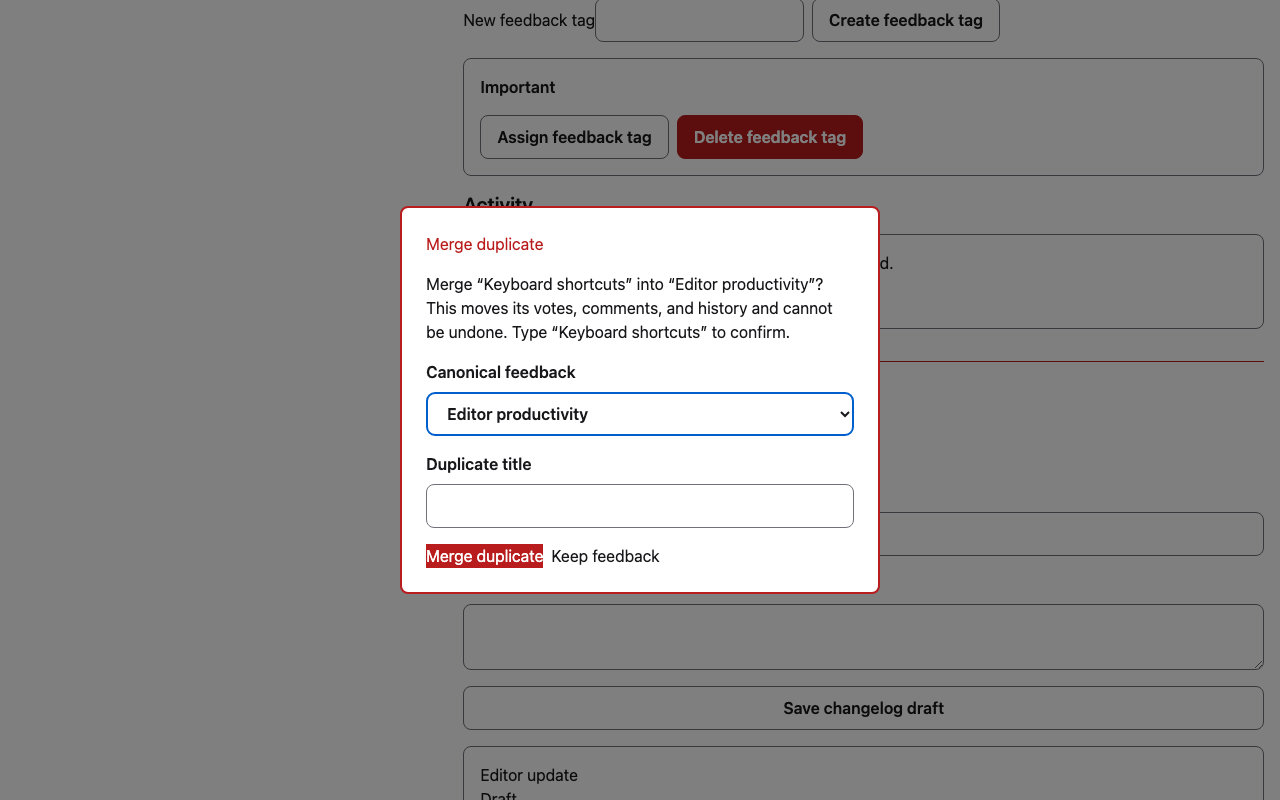
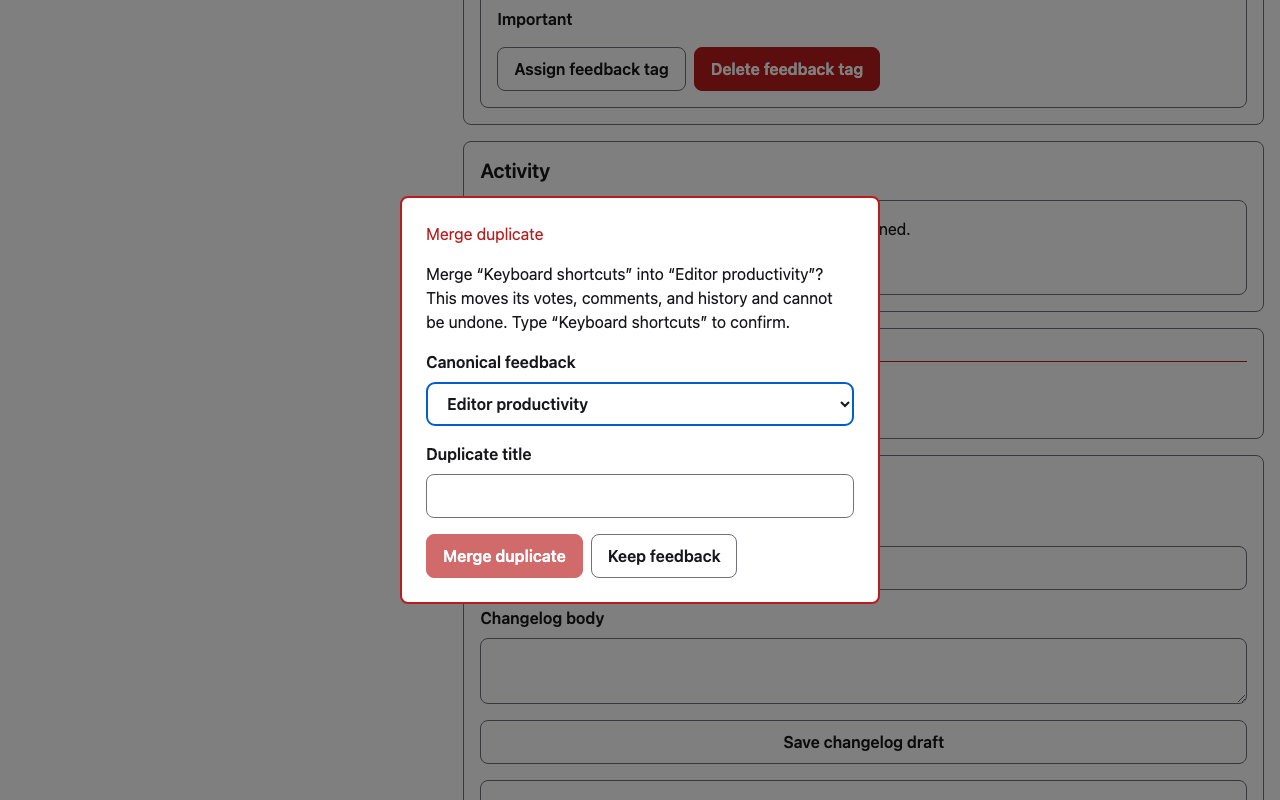
test(03-10): publish deterministic closure evidence

diff --git a/docs/accessibility/phase-3/README.md b/docs/accessibility/phase-3/README.md
@@ -34,7 +34,7 @@ Evidence excludes wall-clock time, temporary paths, ports, process identifiers, 
 | 3.3.2 Labels or Instructions        | Browser journeys resolve every tested input by its visible accessible label.                                                     |
 | 4.1.3 Status Messages               | `status-messages.md` records result and successful-mutation announcements without focus theft.                                   |
 
-`axe.json` is a supplemental automated regression net for the stable public and admin states. Axe cannot certify keyboard completion, focus restoration, announcement quality, zoom, or reflow and is not presented as certification. VIS-01 checks the computed selected, error, destructive, notification, and exact-token hierarchy. VIS-02 produces the named whole-product capture matrix from the same installed-source journey.
+`axe.json` is a supplemental automated regression net for the stable public and admin states. Axe cannot certify keyboard completion, focus restoration, announcement quality, zoom, or reflow and is not presented as certification. VIS-01 also verifies the portaled dialog's 16px typography, 44px controls, 8/16 padding, border, radius, focus, and action gap under a hostile host reset. VIS-02 adds programmatic 1280 non-overlap/overflow checks, measurable admin section borders and spacing, and a real installed activity error-to-retry-to-ready transition before producing the named whole-product capture matrix.
 
 ## Captures
 
@@ -42,6 +42,7 @@ Public light-theme surfaces:
 
 - `board-1280.png`: browse, filter, search, create, and feedback result hierarchy.
 - `detail-1280.png`: selected feedback, voting, subscription, editing, withdrawal, discussion, and activity.
+- `public-recovery-1280.png`: installed public Activity query error with its outcome-specific recovery control; the browser then retries the same watch and asserts the ready domain sentence.
 - `roadmap-1280.png`: planned, in-progress, and complete status groups.
 - `changelog-1280.png`: published entry, valid machine time, and linked feedback.
 - `notifications-1280.png`: read/unread list, real target links, formatted time, and mutation action.
@@ -69,7 +70,7 @@ These reports cover Afferent's documented default light and dark tokens. Hosts t
 
 ## Automated proof and human review
 
-The automated oracle proves packed-package installation, generated local shadcn source, mounted hooks, all five consequential dialogs, closed admin states, host-owned phone navigation, exact computed styles, keyboard/focus behavior, status and alert semantics, non-empty captures, no page-level horizontal overflow, minimum target size, exact contrast, zero supplemental axe violations, and deterministic evidence bytes. It does not replace human judgment of overall aesthetic polish, density, rhythm, or product desirability. The complete matrix is intentionally versioned so that final aesthetic review can inspect those qualities without weakening the executable release criteria.
+The automated oracle proves packed-package installation, generated local shadcn source, mounted hooks, all five consequential dialogs, portal ownership despite hostile host font/button resets, closed public/admin states, query-owned public retry, host-owned phone navigation, exact computed styles, 1280 content/metric non-intersection, measurable admin section hierarchy, keyboard/focus behavior, status and alert semantics, non-empty captures, no page-level horizontal overflow, minimum target size, exact contrast, zero supplemental axe violations, and deterministic evidence bytes. It does not replace human judgment of overall aesthetic polish, density, rhythm, or product desirability. The complete matrix is intentionally versioned so that final aesthetic review can inspect those qualities without weakening the executable release criteria.
 
 Evidence determinism is measured by running the installed-source browser suite twice and comparing a sorted SHA-256 manifest of every file in this directory. Fixtures use fixed `Date.UTC` values, capture waits settle fonts and focus paint, and reports exclude machine-local paths, ports, process identifiers, wall-clock time, and random values.
 
